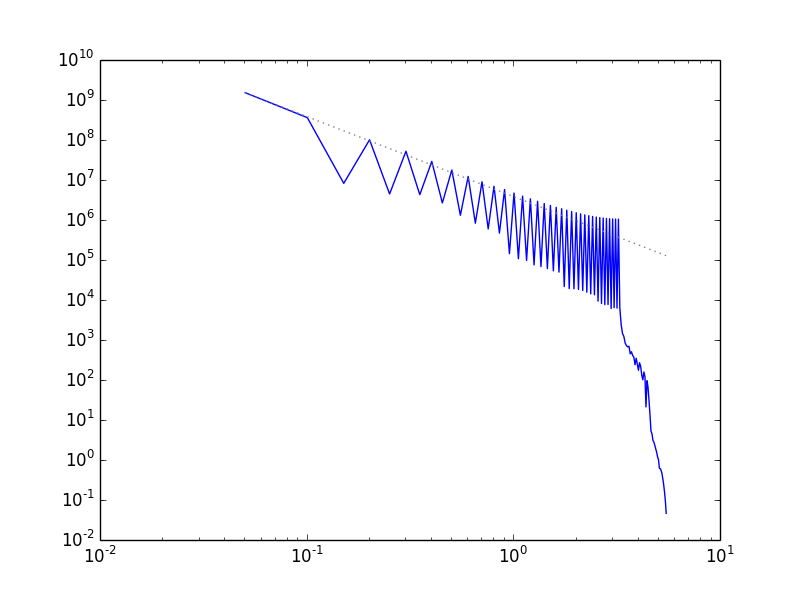
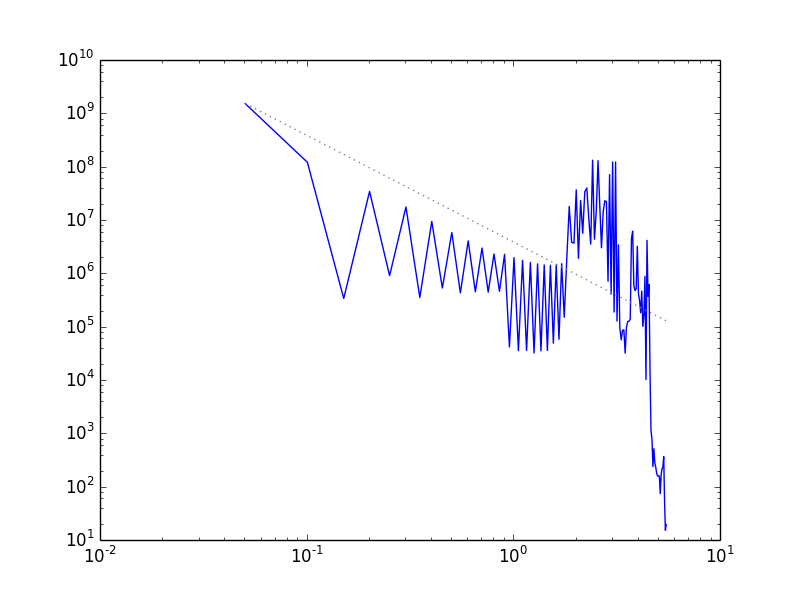
some clean-up -- there is still a normalization issue here.

diff --git a/power_spectrum/ps.py b/power_spectrum/ps.py
@@ -29,14 +29,9 @@ A_0 = 1000.0
 # first pass -- count how many hits each k gets
 weights = {}
 
-m = 1
-while m < modes:
-
-    n = 1
-    while n < modes:
-
-        p = 1
-        while p < modes:
+for m in range(1,modes+1):
+    for n in range(1,modes+1):
+        for p in range(1,modes+1):
 
             ii2 = m**2 + n**2 + p**2
             
@@ -45,10 +40,6 @@ while m < modes:
             else:
                 weights[ii2] += 1
 
-            p += 1
-        n += 1
-    m += 1
-
 
 # amplitude of smallest k
 print "min{k_x} = ", 1/L[0]
@@ -56,17 +47,14 @@ print "amplitude of smallest k = ", A_0*np.sqrt(1/L[0]**2 + 1/L[1]**2 + 1/L[2]**
 
 
 # compute the function we will find the power spectrum of
-m = 1
-while m < modes:
+for m in range(1,modes+1):
     k_x = m/L[0]
-
     print "m = ", m
-    n = 1
-    while n < modes:
+
+    for n in range(1,modes+1):
         k_y = n/L[1]
 
-        p = 1
-        while p < modes:
+        for p in range(1,modes+1):
             k_z = p/L[2]
 
             ii2 = m**2 + n**2 + p**2
@@ -76,18 +64,18 @@ while m < modes:
             
             phi += A*np.sin(k_x*x3d + k_y*y3d + k_z*z3d)
 
-            p += 1
-        n += 1
-    m += 1
-
-
 
 # now do the power spectrum
-phi_hat = np.fft.fftn(phi)[0:N/2+1,0:N/2+1,0:N/2+1]
+phi_hat = np.fft.fftn(phi) #[0:N/2+1,0:N/2+1,0:N/2+1]
 #phi_hat = 8.0*phi_hat/N**3
 phi_hat = phi_hat/N**3
 
 phi_hat = abs(phi_hat)**2
+
+# Parseval's theorem: sum of |phi(x)|**2 = sum of |phi_hat(k)|**2
+print "sum of |phi(x)|**2    = {}".format(np.sum(phi))
+print "sum of |phihat(k)|**2 = {}".format(np.sum(phi_hat))
+print "DC Offset = {}".format(phi_hat[0,0,0])
 
 kx = np.fft.fftfreq(N)[0:N/2+1]
 kx[-1] *= -1
@@ -118,11 +106,10 @@ ncount = np.bincount(whichbin)
 
 E_spectrum = np.zeros(len(ncount)-1, dtype=np.float64)
 
-n = 1
-while n < len(ncount):
+for n in range(ncount):
     if not ncount[n] == 0: 
         E_spectrum[n-1] = np.sum(phi_hat.flat[whichbin==n]) #/ncount[n]
-    n += 1
+
 
 k = bins[1:n]
 E_spectrum = E_spectrum[0:len(k)]
